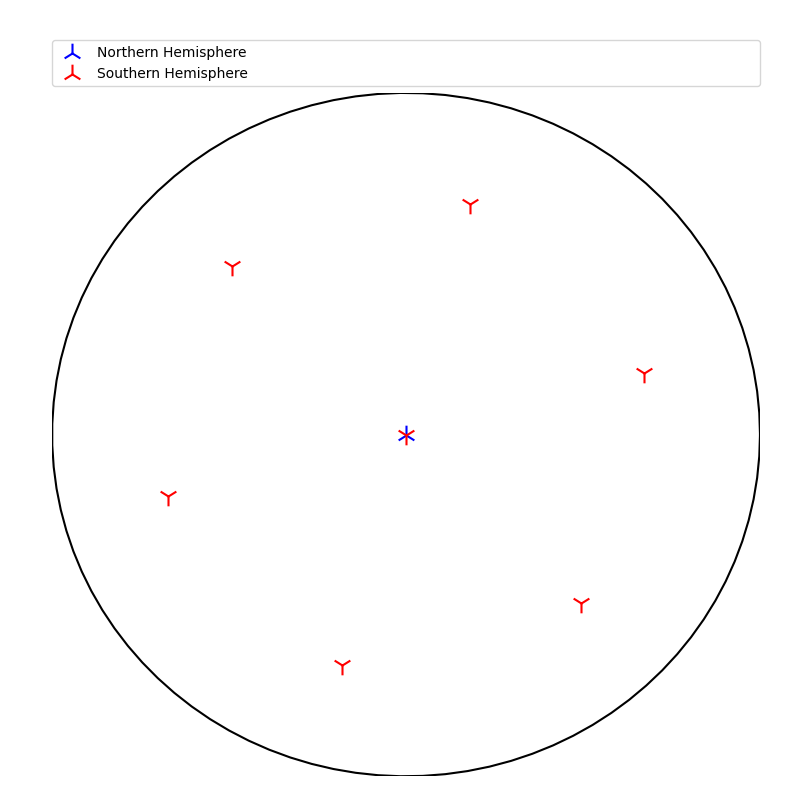
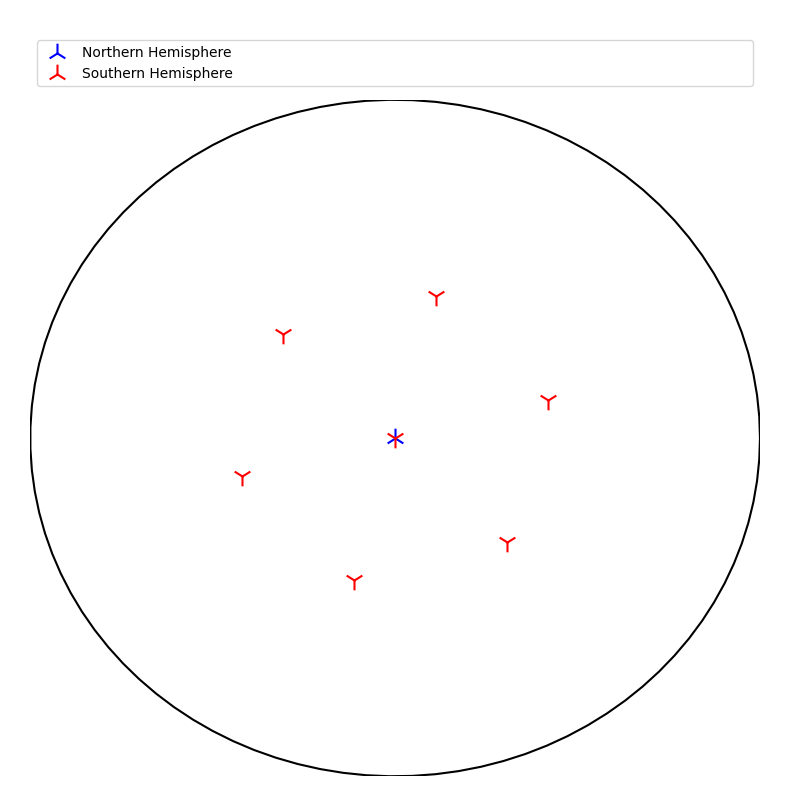
began making proj animations

diff --git a/main.py b/main.py
@@ -9,6 +9,13 @@ from PyCrystallography import *
 
 ################################################################################
 
+def delete_all_frames():
+    """
+    """
+    os.system('rm Images/frames/*')
+    
+################################################################################
+
 def make_all_structure_gifs():
     """
     generates screenshots of the program and then compiles them into a gif
@@ -291,17 +298,17 @@ def make_all_stereos():
     """
     """
     stereos = [
-                {'code': """points = normal_points(ax,cuboid(ax,2,2,2),2);Stereographic_projection(ax,points,2,'stereographic_projection_cube')"""},
+                {'code': """points = normal_points(ax,cuboid(ax,2,2,2),2);Stereographic_projection(points,2,'stereographic_projection_cube')"""},
        
-                {'code': """points = normal_points(ax,pyramid(ax,1,0.5,3),1);Stereographic_projection(ax,points,1,'stereographic_projection_pyramid')"""},
+                {'code': """points = normal_points(ax,pyramid(ax,1,0.5,3),1);Stereographic_projection(points,1,'stereographic_projection_pyramid')"""},
        
-                {'code': """points = normal_points(ax,bipyramid(ax,1,0.5,6),1);Stereographic_projection(ax,points,2,'stereographic_projection_bipyramid')"""},
+                {'code': """points = normal_points(ax,bipyramid(ax,1,0.5,6),1);Stereographic_projection(points,2,'stereographic_projection_bipyramid')"""},
     
-                {'code': """points = normal_points(ax,prism(ax,2,2,6),2);Stereographic_projection(ax,points,2,'stereographic_projection_prism')"""},
+                {'code': """points = normal_points(ax,prism(ax,2,2,6),2);Stereographic_projection(points,2,'stereographic_projection_prism')"""},
           
-                {'code': """points = normal_points(ax,biprismid(ax,3,1,0.5,5),1);Stereographic_projection(ax,points,2,'stereographic_projection_biprismid')"""},
+                {'code': """points = normal_points(ax,biprismid(ax,3,1,0.5,5),1);Stereographic_projection(points,2,'stereographic_projection_biprismid')"""},
      
-                {'code': """points = normal_points(ax,tetrakis(ax,4,1),10);Stereographic_projection(ax,points,10,'stereographic_projection_tetrakis')"""}
+                {'code': """points = normal_points(ax,tetrakis(ax,4,1),10);Stereographic_projection(points,10,'stereographic_projection_tetrakis')"""}
                   ]
 
     for stereo in stereos:
@@ -313,16 +320,89 @@ def make_all_stereos():
 
 ################################################################################
 
+def make_all_stereo_gifs():
+    """
+    """
+    delete_all_frames()
+    name = 'stereographic_projection_inversion'
+    r=1
+    points = []
+    d_theta = np.pi
+    fig = plt.figure(0,figsize=[8,8])
+    fig.clear()
+    ax = fig.add_subplot(111,projection='3d',azim=30,elev=30)
+    points.append([r*np.cos(d_theta),r*np.sin(d_theta),0])
+
+    filename = 'frames/01_2'
+    Stereographic_projection(points,r,filename)
+    print('Frame (01/2) Saved.')
+
+    # # # # # # # # # #
+
+    fig = plt.figure(0,figsize=[8,8])
+    fig.clear()
+    ax = fig.add_subplot(111,projection='3d',azim=30,elev=30)
+    x_inv,y_in,z_inv =invert(points[0][0],points[0][1],points[0][2])
+    points.append([x_inv,y_in,z_inv])
+    print(points)
+
+    filename = 'frames/02_2'
+    Stereographic_projection(points,r,filename)
+    print('Frame (02/2) Saved.')
+
+    # convert all saved images to a single gif
+    import imageio
+    images = []
+    for filename in os.listdir('Images/frames/'):
+        images.append(imageio.imread('Images/frames/'+filename))
+    imageio.mimsave('Images/{}.gif'.format(name), images)
+    print('{}.gif made'.format(name))
+
+    #########################################
+    #########################################
+
+    delete_all_frames()
+    name = 'stereographic_projection_rotation'
+    n=10
+    r=1
+    points = []
+    d_theta = 2*np.pi/n
+    for i in range(0,n):
+        fig = plt.figure(0,figsize=[8,8])
+        fig.clear()
+        ax = fig.add_subplot(111,projection='3d',azim=30,elev=30)
+        points.append([r*np.cos(d_theta*i),r*np.sin(d_theta*i),0])
+
+        if i <= 8:
+            i = '0'+str(i+1)
+        else:
+            i = str(i+1)
+
+        filename = 'frames/{}_{}'.format(i,n)
+        Stereographic_projection(points,r,filename)
+        print('Frame ({}/{}) Saved.'.format(i,n))
+
+    # convert all saved images to a single gif
+    import imageio
+    images = []
+    for filename in os.listdir('Images/frames/'):
+        images.append(imageio.imread('Images/frames/'+filename))
+    imageio.mimsave('Images/{}.gif'.format(name), images)
+    print('{}.gif made'.format(name))
+
+################################################################################
+
 # make_all_structure_gifs()
-make_all_operations_gifs()
+# make_all_operations_gifs()
 # make_all_shape_gifs()
 # make_all_face_norm_gifs()
 # make_all_stereos()
+make_all_stereo_gifs()
 
 # fig = plt.figure(0,figsize=[8,8])
 # ax = fig.add_subplot(111,projection='3d')
-# faces = tetrakis(ax,4,1)
+# faces = cuboid(ax,2,2,2)
 # #faces=biprismid(ax,3,1,0.5,5)
-# points=normal_points(ax,faces,10)
+# points=normal_points(ax,faces,5)
 # #Stereographic_projection(ax,points,10,'stereographic_projection_tetrakis')
 # plt.show()

diff --git a/PyCrystallography.py b/PyCrystallography.py
@@ -369,7 +369,7 @@ def cube_reflection_diag(ax):
             ax.text(x_,y_,z_,r'$m_{'+str(i)+'}$')
             i = i +1
 
-def Stereographic_projection(ax,points,r,name):
+def Stereographic_projection(points,r,name):
     """
     takes x,y,z coords that all lie on the surface of a 
     sphere and outputs a 2d stereograph
@@ -407,8 +407,8 @@ def Stereographic_projection(ax,points,r,name):
 
     theta = np.linspace(0,2*np.pi,100)
 
-    r = np.sqrt(max(x_)**2 + max(y_)**2)
-    pos =0.05*r
+  #  r = np.sqrt(max(x_)**2 + max(y_)**2)
+    pos =0.15*r
     xc = (r+pos)*np.cos(theta)
     yc = (r+pos)*np.sin(theta)
 
@@ -417,12 +417,14 @@ def Stereographic_projection(ax,points,r,name):
     south = plt.scatter([],[],marker='2',label='Southern Hemisphere',c='r',s=200)
 
     plt.legend(handles=[north,south],bbox_to_anchor=(0., 1.01, 1., .101), loc='lower left',
-         mode="expand", borderaxespad=0.)
-    plt.tight_layout(pad=0, h_pad=0, w_pad=0,rect=[0,0,0.95,0.95])
+         mode="expand")
+    
     plt.plot(xc,yc,c='k')
-    plt.axis('off')
-
     plt.xlim([-r-pos,r+pos])
     plt.ylim([-r-pos,r+pos])
+    plt.tight_layout(pad=0, h_pad=0, w_pad=0,rect=[0,0,0.95,0.95])
+    plt.axis('off')
+
+
     plt.savefig('Images/{}.png'.format(name))
     #plt.show()

diff --git a/README.md b/README.md
@@ -24,7 +24,7 @@ def Diamond(ax):
 </p>
 
 
-## Inversion & Reflection
+## Inversion - Reflection - Rotation
 ```py
 def inversion(ax,h,w,d):
 ```
@@ -35,6 +35,12 @@ def reflection(ax,h,w,d):
   <img src="Images/inversion.gif" width="400" />
   <img src="Images/reflection.gif" width="400" />
 </p>
+
+<p float="left">
+  <img src="Images/stereographic_projection_inversion.gif" width="400" />
+  <img src="Images/stereographic_projection_rotation.gif" width="400" />
+</p>
+
 
 
 ### Reflective Planes
